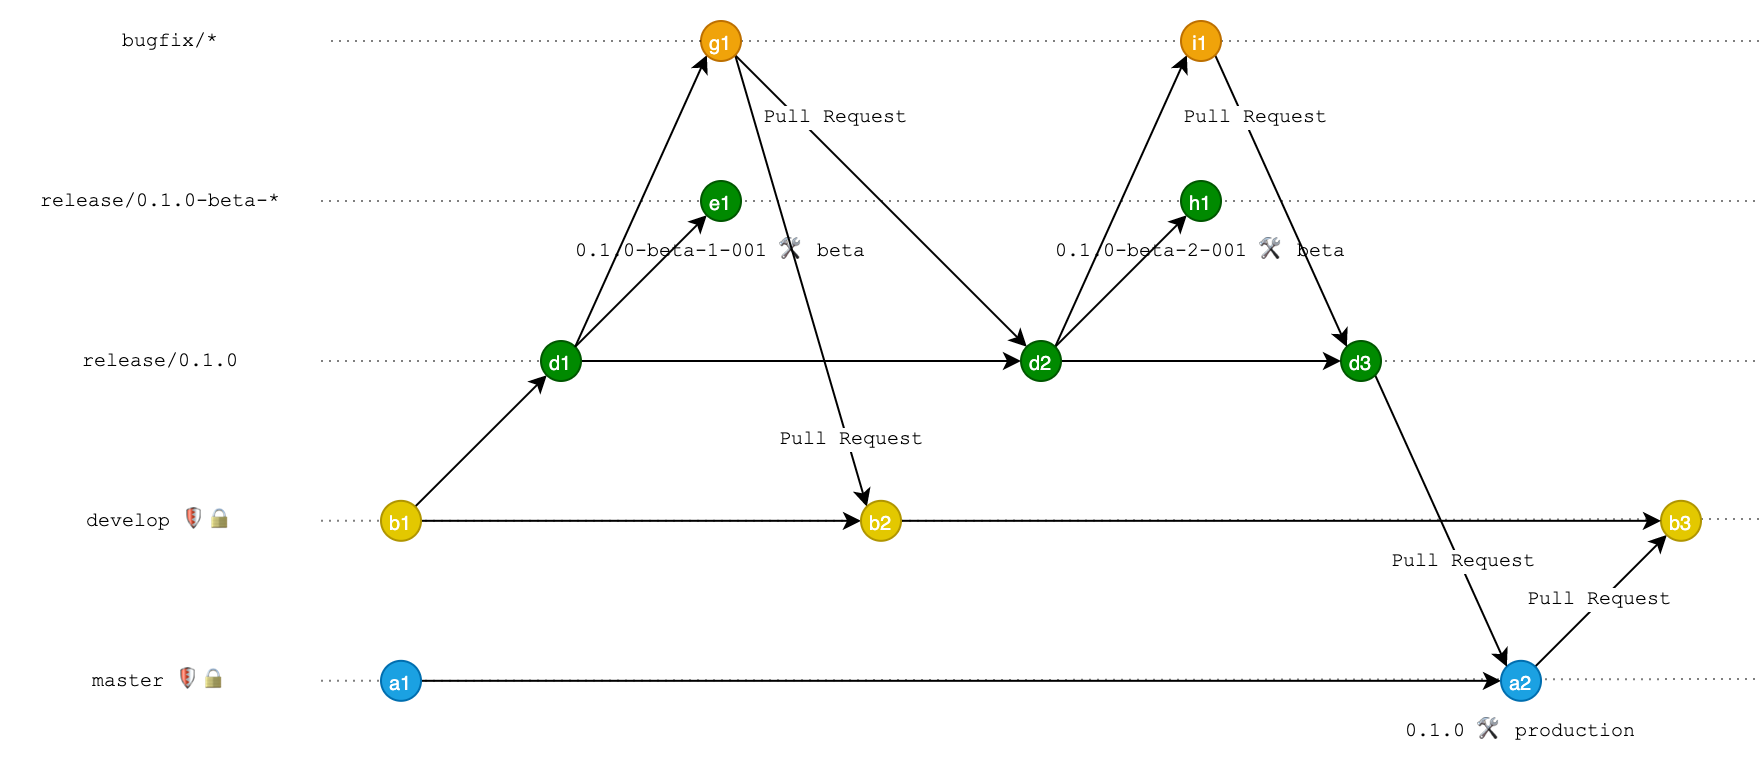
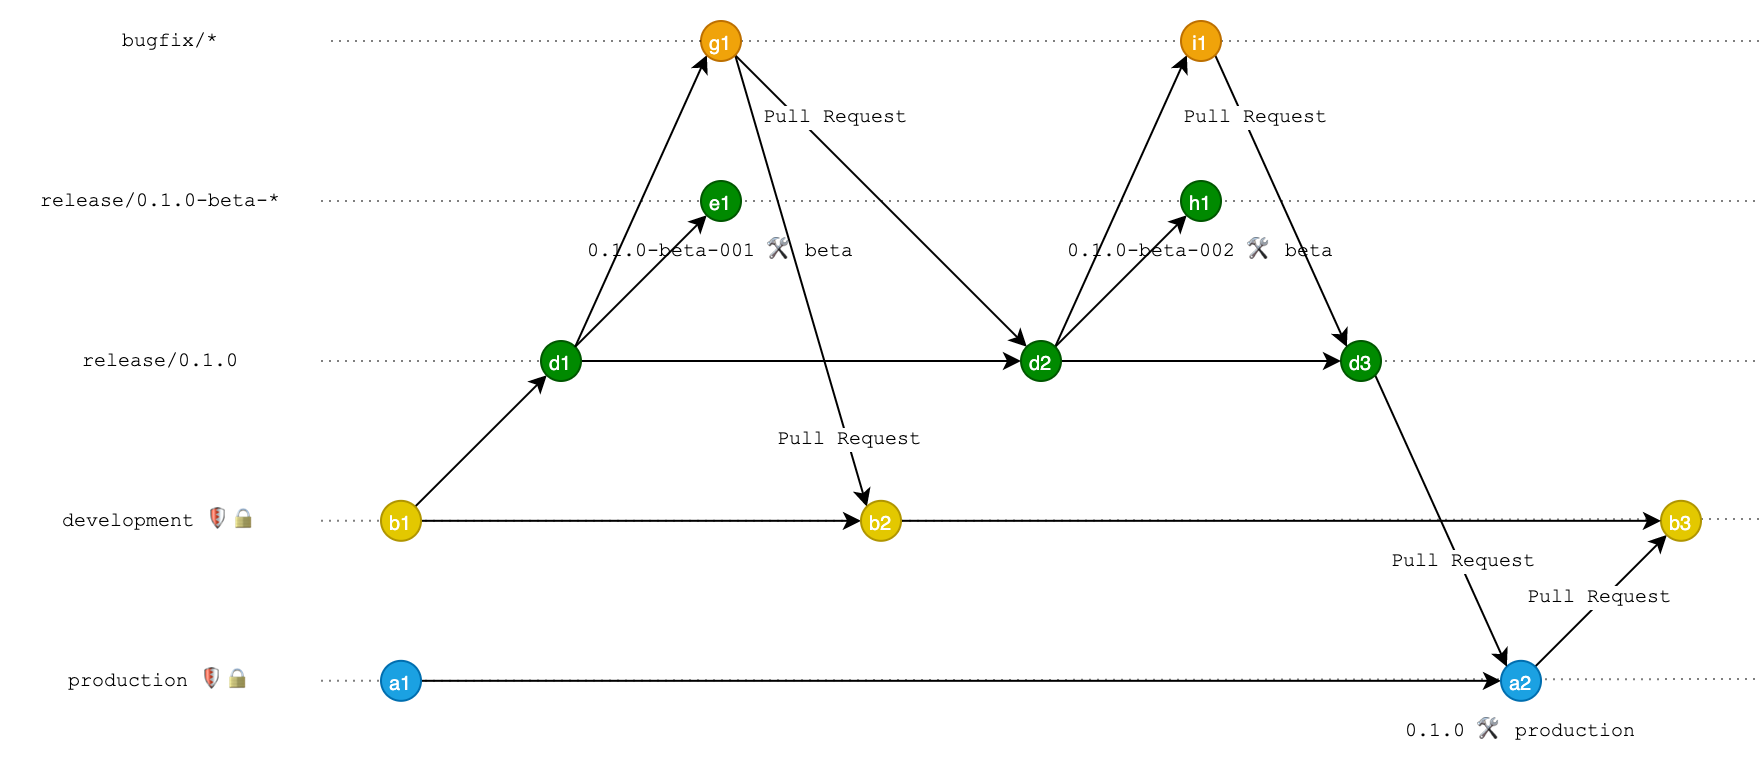
Improve content & readability
Added purpose section to explain the goal of this post.
Added more details on parallel feature branches.
Applied minor tweaks here and there to avoid misinterpretation.
Applied correction after performing a spell check.

diff --git a/_posts/2020-10-01-an-alternative-git-branching-model.md b/_posts/2020-10-01-an-alternative-git-branching-model.md
@@ -10,11 +10,21 @@ Let me render to Caesar the things that are Caesar's 🕊, this post is heavily 
 
 I came to learn about his post during the summer of 2016 when I joined for the first time a team of more than 150 people. As obvious as it is, working within such a vast crowd of heteroclite developers requires a very strict **Git** discipline and boy… 😥 saying that I was not ready for it is a massive understatement!
 
-During my first couple of weeks, I learned much more than during the past two years both in term of best practices enforcement and continuous integration. Beforehand, I never had the opportunity nor the knowledge to squash commits together or rebase a branch that was behind one of the main branches.
+During my first couple of weeks, I learned much more than during the past two years both in terms of best practices enforcement and continuous integration. Beforehand, I never had the opportunity nor the knowledge to squash commits together or rebase a branch that was behind one of the main branches.
 
 I needed to quickly get up to speed and the best way was to learn from my colleagues and try to document myself on the **Git** flow they were using. That's when I started reading the source post.
 
-Even thought my post is targeted at both **Git** newcomers & veterans alike, I'm not going to lecture you on the basic usage and concepts of **Git** like typing commands with the command line interface (CLI) or creating a pull request (PR).
+## Purpose
+
+The goal of this post is to expand the original model by covering advanced topics like:
+
+- Good practices for commits
+- Branch protections
+- Parallel feature branches
+- Semantic versioning
+- Beta versions
+
+Even thought this post is targeted at both **Git** newcomers & veterans alike, I am not going to lecture you on the basic usage and concepts of **Git** like using the command line interface (CLI) or creating a pull request (PR).
 
 For the sake of clarity, I will also not stick to a specific hosting platform (GitHub, GitLab, BitBucket, etc.) and to a specific stack (front, back, mobile, etc.) although I have tested thoroughly this model with iOS Apps and Frameworks.
 
@@ -33,12 +43,6 @@ Here is the legend for the images enclosed in this post:
 | 🔒      | A branch with permissions (ex: enforcing comment resolution)       |
 | 🛡       | A protected branch that cannot be deleted or rewritten             |
 | `X 🛠 Y` | A `X` tag that triggers an automated build for the `Y` environment |
-
-Below is an overview of the whole branching model:
-
-<br />
-
-{% include embedded_image.html imageurl='git_branching_model_global.png' %}
 
 ---
 
@@ -105,7 +109,7 @@ TL;DR;
 
 This peculiar branch is the one where every single commit should represent a stable version of your product.
 
-It's the first branch that you will create when starting a new project, it's the root of all the work that will be done and it is the first step in a new journey that will (or will not) change people's life.
+It is the first branch that you will create when starting a new project, it is also the root of all the work that will be done and the first step in a new journey that will (or will not) change people's life.
 
 Every time a new release is made on the production branch, the commit it originated from must be tagged accordingly but more on that process later.
 
@@ -123,7 +127,7 @@ TL;DR;
 
 ## Development branch 🛠
 
-This unique branch is where the actual magic happen, it will serve as the root of all your features and bug fixes.
+This unique branch is where the actual magic happens, it will serve as the root of all your features and bug fixes.
 
 Every single feature branch will be targeted at the development branch in order to make the new stuff available to everyone. Where is the fun in working all alone?
 
@@ -161,7 +165,7 @@ The minimum would be:
 
 **Those must be applied to both owners & maintainers as well** 😉
 
-By default, most SCM platform will enforce those three protections but feel free to poke at the settings and tweak them to match your team's actual needs.
+By default, most SCM platforms will enforce those three protections but feel free to poke at the settings and tweak them to match your team's actual needs.
 
 You can also enforce PR validation requirements like the minimum number of reviewers or checking that all discussions are resolved before allowing the PR to be merged.
 
@@ -171,17 +175,31 @@ You can also enforce PR validation requirements like the minimum number of revie
 
 Those branches are the one that will come and go as you add more and more content to your project and you merge outstanding PRs.
 
-Each one of those might contains a very small tweak to an existing feature, a whole new set of features or a complete refactoring of your project.
+Each one of those might contain a very small tweak to an existing feature, a whole new set of features or a complete refactoring of your project.
 
-All of them starts from the development branch and will be merged into it as soon as everything is validated by your team.
-
-What about features that require parallel work? Well, it's only a matter of rigorousness between you and your team member as you will need to thoroughly rebase your branch on the development branch (or for the more lazy one, merge the development branch into your branch).
-
-For long living branches (which we all despise), it's perfectly fine to merge the development branch into them at regular intervals to keep up with the latest evolutions and to ease the final merge. Rebasing those might be too much of a daunting task, even for seasoned veterans.
+All of them start from the development branch and will be merged into it as soon as everything is validated by your team.
 
 <br />
 
 {% include embedded_image.html imageurl='git_branching_model_feature_branch.png' %}
+
+### Parallel feature branches
+
+What about long-living feature branches that require parallel work? 🤔
+
+The solution is to treat each long-living branch as a development branch and start new features & bugfix directly from them.
+
+Newly created PR will need to target the long-living branches instead of the development branch.
+
+Afterward, it's a matter of rigorousness between the different team members as you will need to thoroughly rebase your long-living branch on the development branch at regular intervals.
+
+Rebasing a long-living branch might be too much of a daunting task, even for seasoned veterans, so it is fine to merge the development branch into them.
+
+This will allow them to keep up with the latest evolutions and ease the final merge. 
+
+<br />
+
+{% include embedded_image.html imageurl='git_branching_model_parallel_features_branch.png' %}
 
 <br />
 
@@ -208,7 +226,7 @@ A merge commit is created upon merging a branch in another one, this is the defa
   - Easy to revert
 - **Cons 👎**
   - Heavy on the eye
-  - Requires rebasing discipline to make it efficient
+  - Requires local squashing discipline to make it efficient
 
 ### Squash merge with commit
 
@@ -298,7 +316,7 @@ It will also be useful for the users of your deliverables so they can pinpoint w
 
 ## Release branches 📦
 
-Once your development branch reach a point where all the expected features and bug fixes are implemented, it might be the right time to perform a release.
+Once your development branch reaches a point where all the expected features and bug fixes are implemented, it might be the right time to perform a release.
 
 A release branch can also be used to perform last minute bug fixes (that you may or may not cherry pick into the development branch) and feature implementation.
 
@@ -346,7 +364,7 @@ This will ensure that all tags and hotfixes are back ported into the development
 
 ## Tags 🏷
 
-Tags are like any other branches, the main difference is that nothing happen on those, they are just markers on specific commits to express a state of your project at a given time.
+Tags are like any other branches, the main difference is that nothing happens on those, they are just markers on specific commits to express a state of your project at a given time.
 
 The main usage of a tag is to keep a lock of your project at a specific commit, this is critical for production release as it allows you to mark the merge commit that was the result of merging a release branch into the production branch.
 
@@ -358,11 +376,11 @@ And they can also be used for something else, managing beta versions 👇
 
 ## Beta versions ☢
 
-What happen when you and your team are ready to release a new version but you also want to let some of your esteemed users have a bite of the new features before everyone else?
+What happens when you and your team are ready to release a new version but you also want to let some of your esteemed users have a bite of the new features before everyone else?
 
 The solution is to create a beta version and release it to a select few that may help you test your product before performing the actual release itself.
 
-But… should you create a dedicated branch like `beta/my-awesome-beta-for-v0.1.0`? Should you simply tag a specific commit it your release branch and perform a manual release?
+But… should you create a dedicated branch like `beta/my-awesome-beta-for-v0.1.0`? Should you simply tag a specific commit on your release branch and perform a manual release?
 
 Well, in this flow, it is a slight mix of those two, the steps are the following:
 
@@ -430,6 +448,14 @@ TL;DR;
 As I am well aware that each project is unique, I am also aware that this particular **Git** branching model might not suit your exact needs. And that's perfectly fine, I never claimed to offer you THE silver bullet that would solve all your issues 😏
 
 I hope that some of you have found a way to improve their day-to-day workflows with this simple yet effective flow.
+
+Below is an overview of the whole branching model:
+
+<br />
+
+{% include embedded_image.html imageurl='git_branching_model_global.png' %}
+
+<br />
 
 That's all folks!
 
